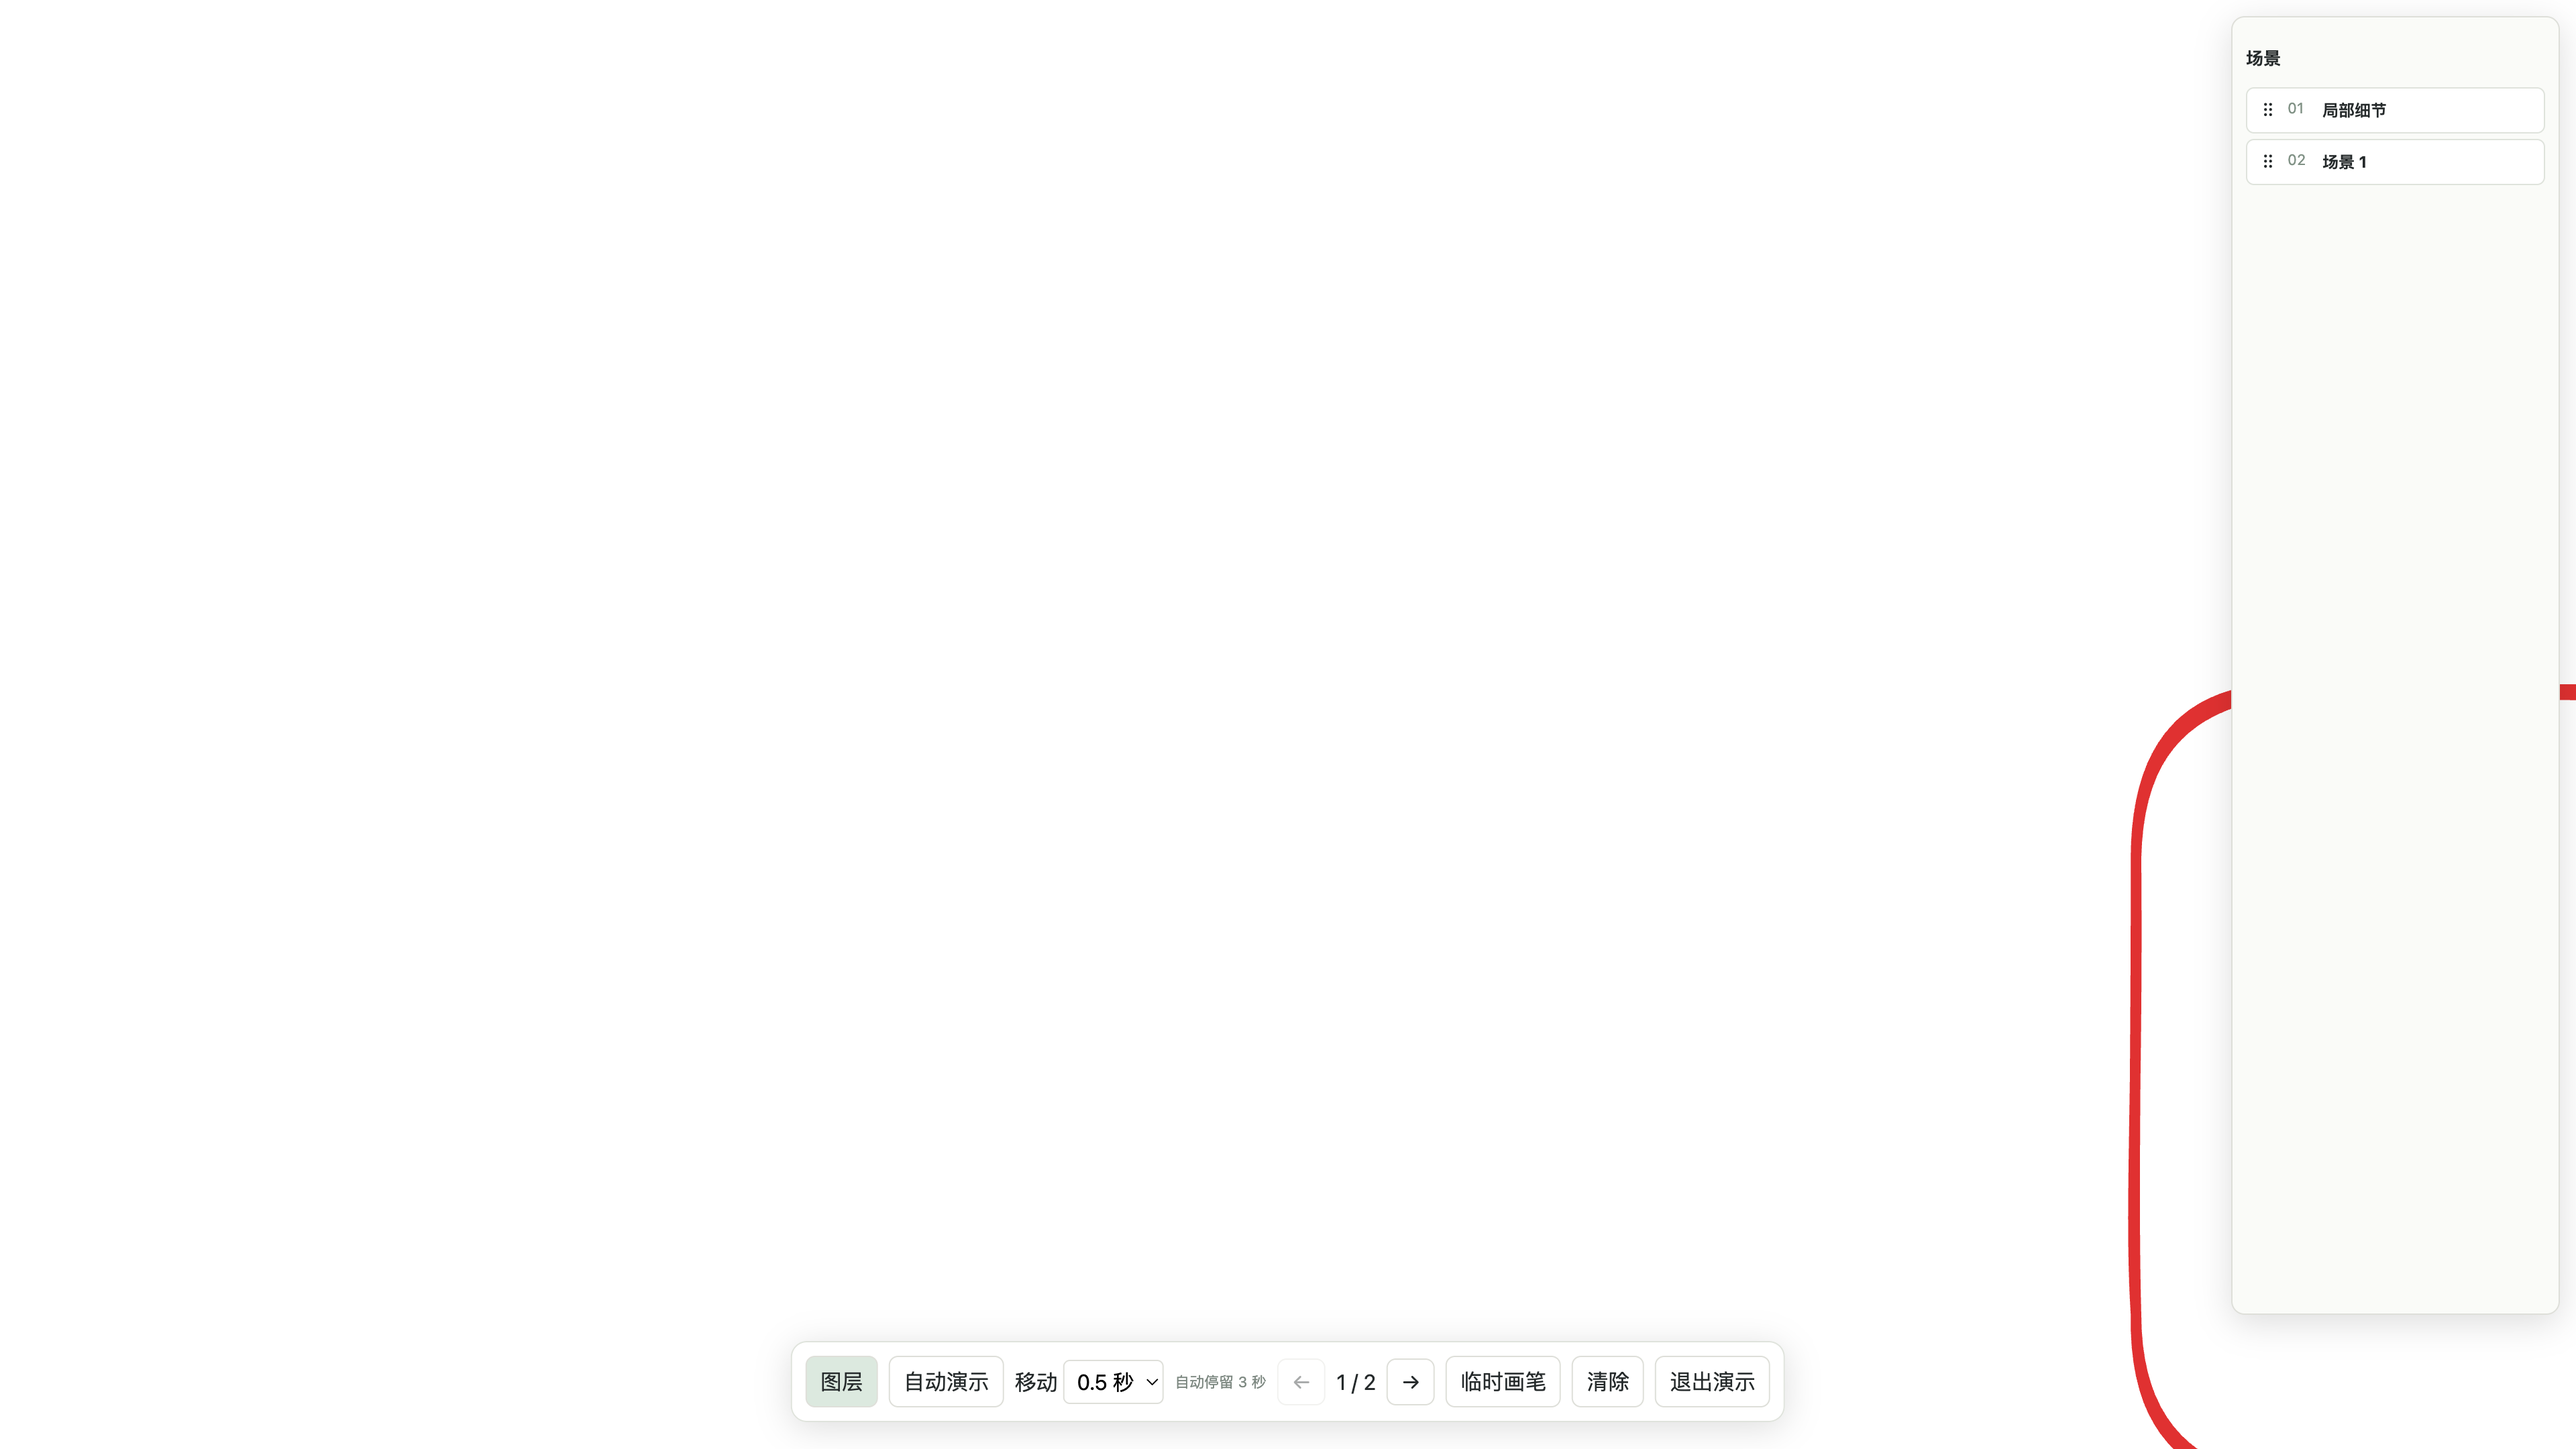
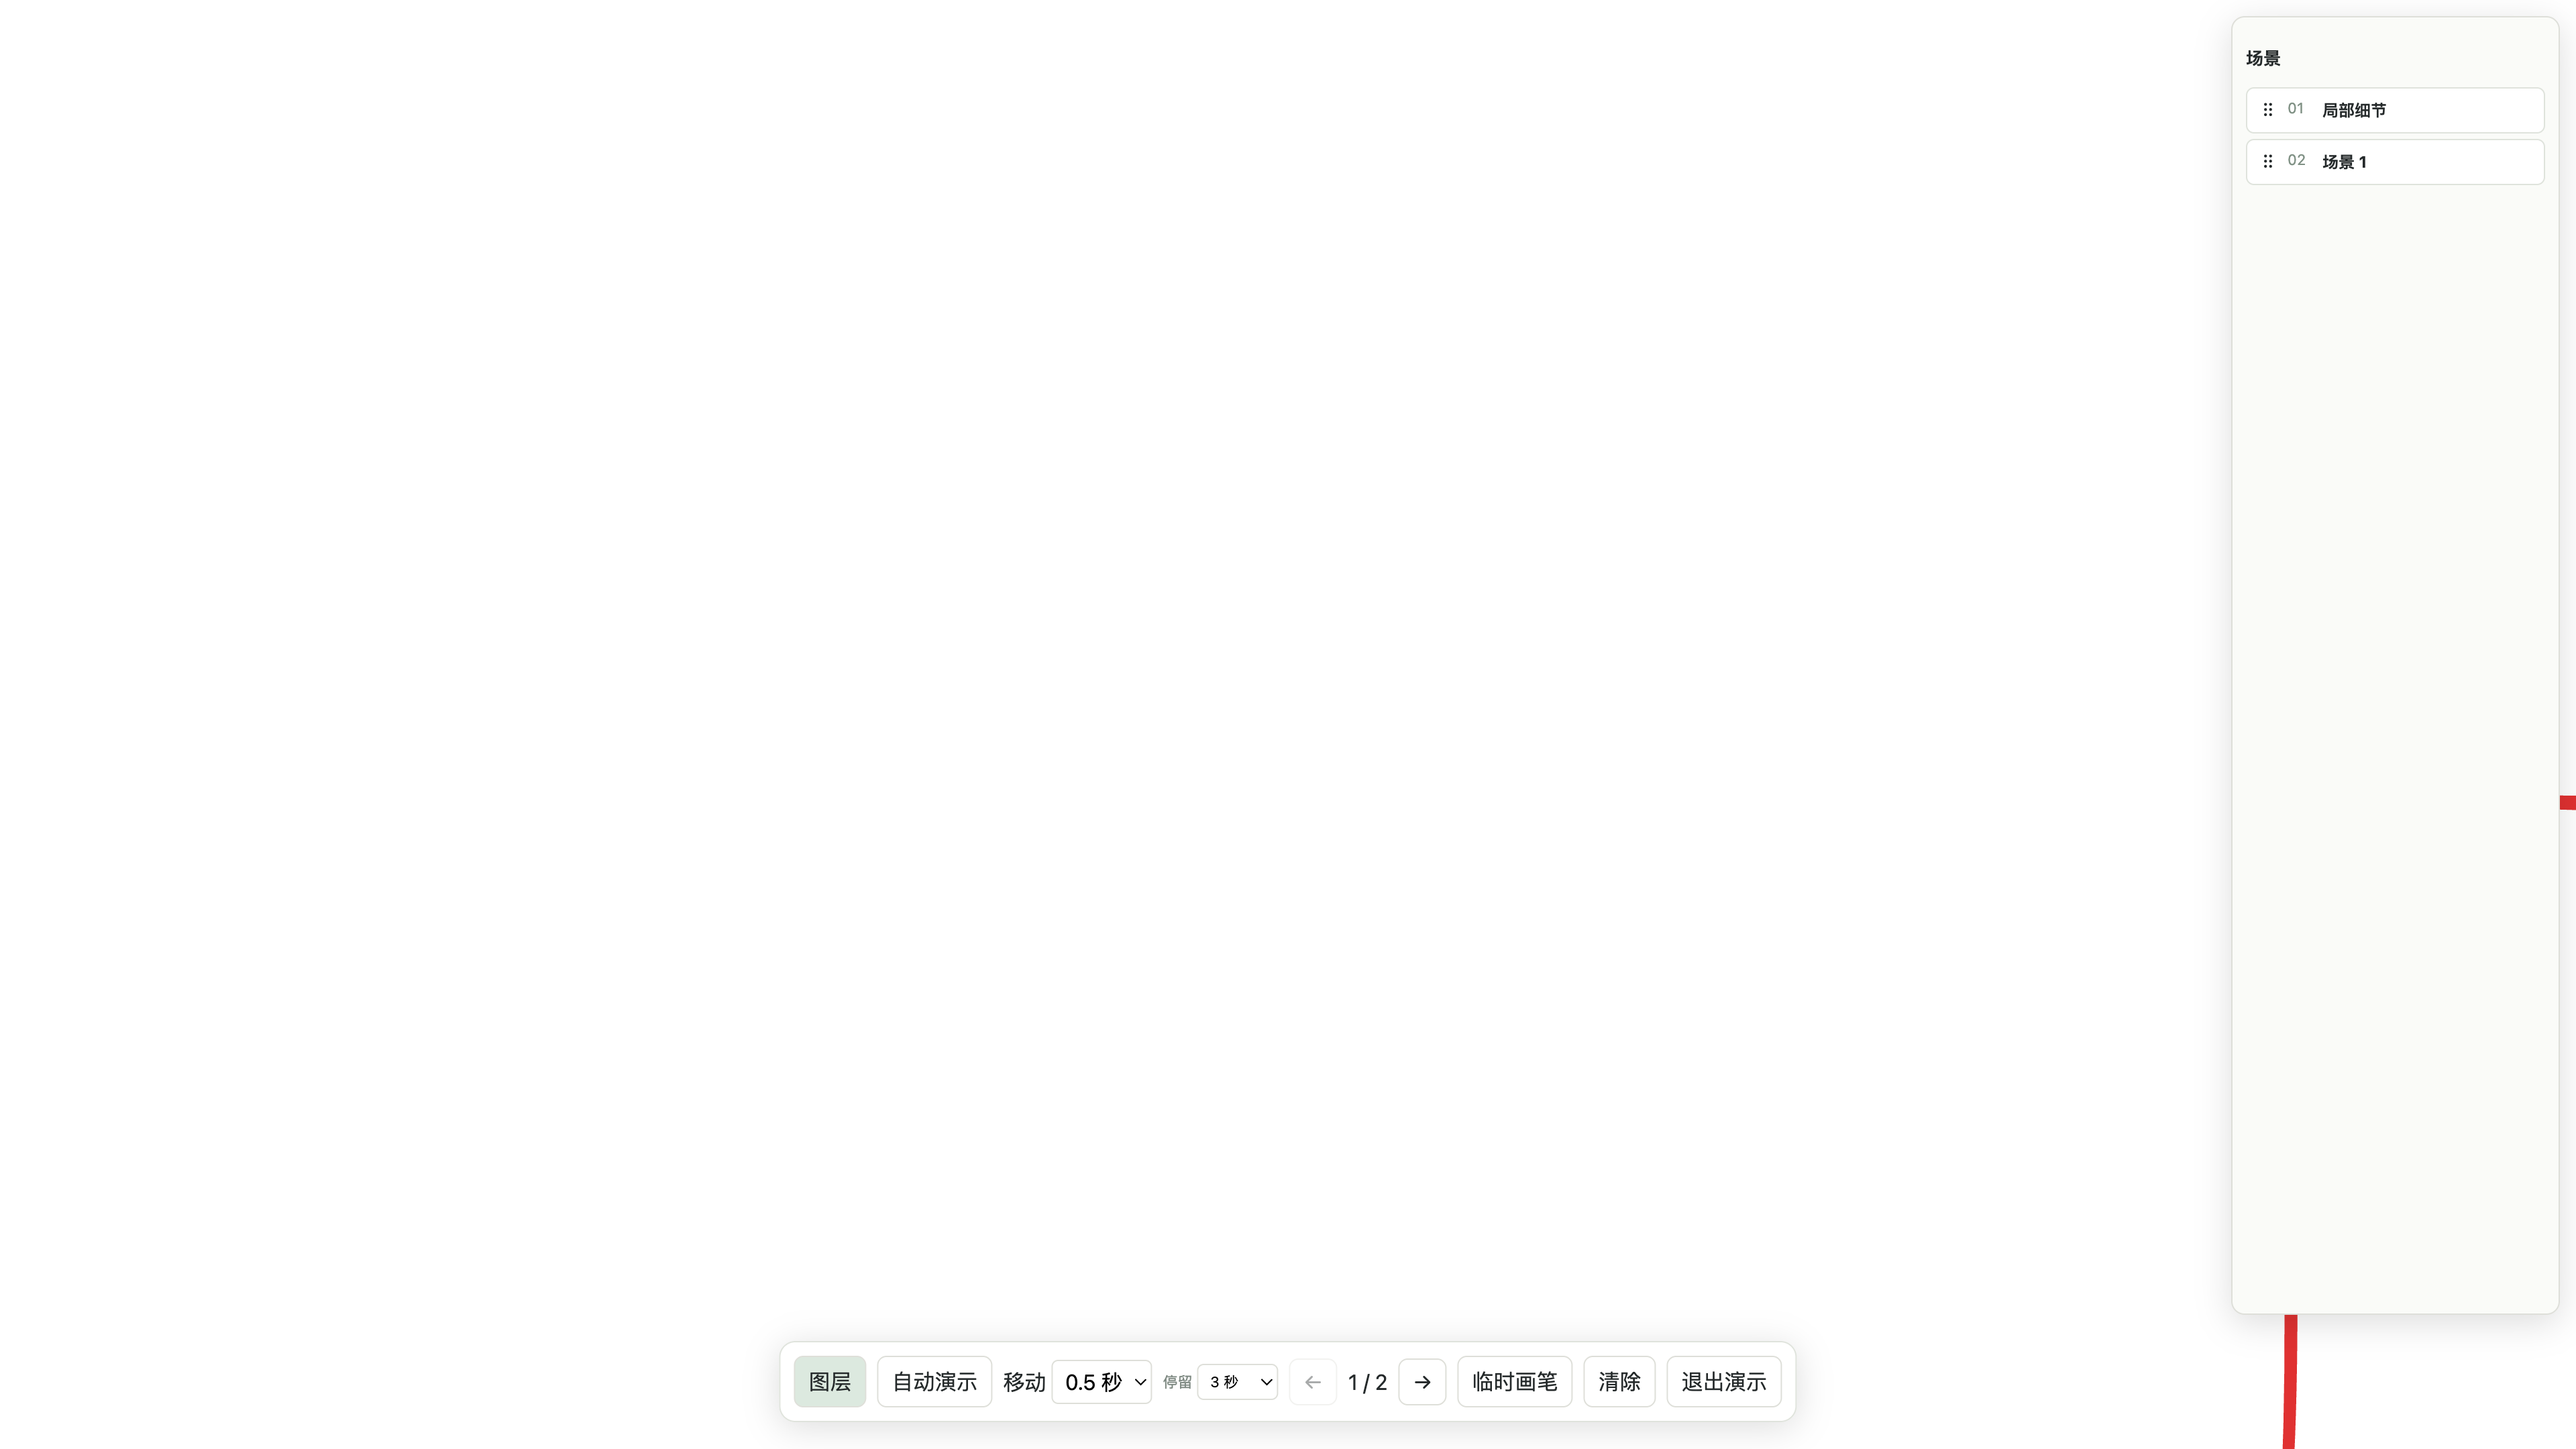
docs: show save-row layout and autoplay dwell settings

diff --git a/desktop/README.md b/desktop/README.md
@@ -42,6 +42,8 @@ Default macOS folder: `~/Library/Application Support/Local Canvas/`; default Win
 
 Presentation always begins with the first ordered scene. The Layers button opens the same draggable scene list and context menu during fullscreen. Editing navigation is fixed at 500 ms; presentation controls offer 500/1000/1500/2000 ms for arrows and automatic playback. Automatic playback waits three seconds after each transition and stops at the last scene; opening Layers or the pen pauses it.
 
+The workspace buttons use two fixed rows: create board/folder, then Save/Save As. Autoplay dwell now offers 1/2/3/5/10/15/30 seconds (default three), independently of transition duration. Changing dwell during playback restarts the current page's countdown.
+
 Database: Electron `app.getPath('userData')/workspace.sqlite`; daily startup snapshots: `userData/backups/`. Development and packaged builds both use the `Local Canvas` profile under the operating system's application-data directory. Set `LOCAL_CANVAS_DATA` to an absolute dedicated directory for tests or an explicit profile.
 
 Keep external backups on another disk. Daily snapshots on the same disk do not protect against disk failure. Importing a backup never overwrites the current workspace. Individual document payload limit is 100 MB, backup import file limit 500 MB; these are safety limits on a single operation, not document-count quotas.

diff --git a/desktop/VALIDATION.md b/desktop/VALIDATION.md
@@ -56,3 +56,5 @@ Expanded real Electron tests repeat clicks on the active whiteboard and press Sa
 Save As produces a full document containing scenes. The actual storage-location panel is checked against the isolated test profile. The test migrates the workspace and backups through the UI, closes the application while editing is locked, relaunches using the profile's storage-location pointer, and verifies the active document's scene/text data and new displayed database path. The original workspace is retained; nonempty destinations are rejected by the implementation. External-drive disconnect/reconnect and Windows runtime validation remain outstanding.
 
 Final result: the signed macOS packaged application passed the complete expanded desktop regression, including actual fullscreen-layer dragging, first-page entry, auto advance/stop, repeated-document-click recovery, native undo/redo, Save As and storage migration across restart. All 9 storage/navigation unit tests also passed. Updated real screenshots are stored under docs/local-canvas/.
+
+Save/dwell refinement adds actual button bounding-box assertions: Save lies below the create row and aligns vertically with Save As. The autoplay test confirms a default three-second dwell, selects one second, and observes automatic advancement and stopping at the last page, separately from the selected 500 ms movement duration.

diff --git a/desktop/CHANGELOG.md b/desktop/CHANGELOG.md
@@ -1,5 +1,11 @@
 # 修改记录
 
+## 2026-10-18 · 保存布局与演示停留时间
+
+- N26：工作区使用固定两行两列，第一行“＋白板、＋文件夹”，第二行“保存、另存为”，不再依赖自动折行。
+- N27：自动演示每页停留可选 1/2/3/5/10/15/30 秒，默认 3 秒；移动时长仍独立选择 0.5/1/1.5/2 秒。播放中更改停留值会从当前页重新计时。
+- 临时画笔按场景建立独立历史，避免快速自动翻页后的撤销记录残留；跨页保留颜色、粗细、透明度和背景偏好。
+
 ## 2026-10-18 · 演示与保存位置
 
 - N20：底部增加“图层”，演示内可打开场景列表、拖拽排序、右键改名；标题原位编辑，取消编辑不退出全屏。

diff --git a/desktop/NEXT-ITERATION.md b/desktop/NEXT-ITERATION.md
@@ -31,6 +31,8 @@
 | N23 | 编辑模式场景跳转固定 0.5 秒，移除其他时长选项 |
 | N24 | 修复同文档重复点击导致编辑器引用被清空；加载重新挂载并检查准备状态 |
 | N25 | 演示首页为当前排序的第一个场景，每次进入均从首页开始 |
+| N26 | 工作区第一行新建白板/文件夹，第二行固定保存/另存为 |
+| N27 | 自动演示停留时间可选 1/2/3/5/10/15/30 秒，默认 3 秒，与移动时长独立 |
 
 新增反馈：场景侧栏切换使用 1:3 双栏图标；README 仅突出原版差异，修复细节和修改历史移至独立清单。
 

diff --git a/README.md b/README.md
@@ -34,7 +34,7 @@
 
 ![演示图层面板：排序与右键场景操作，底部可选自动演示及移动时长](docs/local-canvas/layers-current.png)
 
-自动演示每页停留 3 秒，到最后一页停止；打开图层面板或启用临时画笔时暂停自动播放。
+自动演示每页停留可选 1、2、3、5、10、15、30 秒（默认 3 秒），与移动时长分别设置，到最后一页停止；打开图层面板或启用临时画笔时暂停自动播放。工作区第一行是“＋白板、＋文件夹”，第二行固定为“保存、另存为”。
 
 ## 区域导出
 
